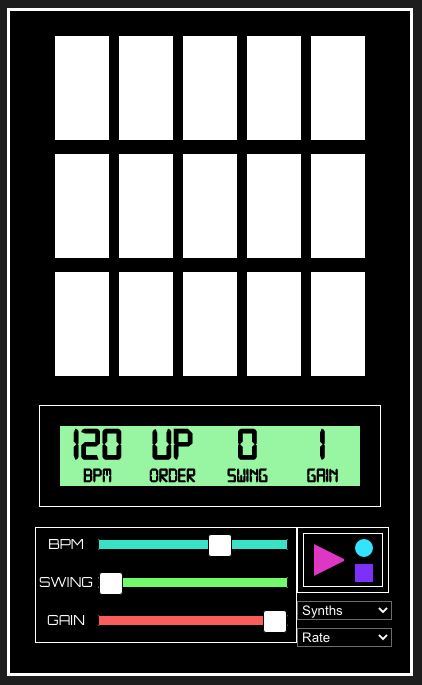
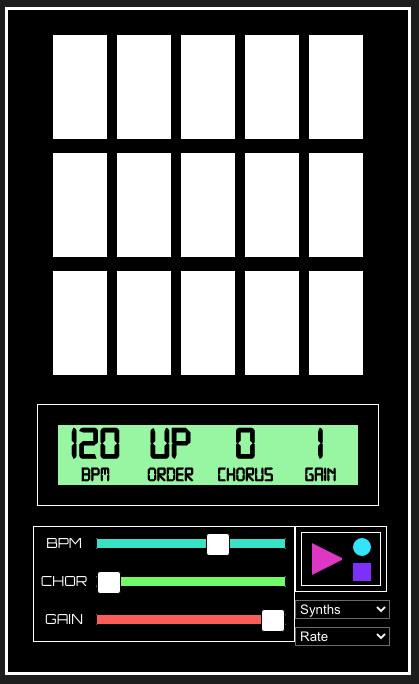
replaces Arp swing with chorus and updates image

diff --git a/src/containers/arpeggiator/Arpeggiator.js b/src/containers/arpeggiator/Arpeggiator.js
@@ -17,7 +17,7 @@ export default function Arpeggiator() {
   const [durationChoices] = useState(DurationChoices);
   const [eventID, setEventID] = useState(0);
   const [bpm, setBpm] = useState(120);
-  const [swing, setSwing] = useState(0.0);
+  const [chorus, setChorus] = useState(0.0);
   const [gain, setGain] = useState(1.0);
   const [recDest] = useState(Tone.context.createMediaStreamDestination());
   const [recorder, setRecorder] = useState(null);
@@ -104,9 +104,11 @@ export default function Arpeggiator() {
     Tone.Transport.bpm.value = bpm;
   }
 
-  function updateSwing(swing) {
-    setSwing(parseFloat(swing));
-    Tone.Transport.swing = swing;
+  function updateChorus(chorus) {
+    synth.disconnect();
+    setChorus(parseFloat(chorus));
+    const chor = new Tone.Chorus(1.5, 3.5, chorus).toMaster();
+    synth.connect(chor);
   }
 
   function updateGain(gain) {
@@ -205,7 +207,7 @@ export default function Arpeggiator() {
           <div className="arpeggiator-values-container">
             <h3 className="arpeggiator-values">{bpm} <p className="arpeggiator-units">BPM</p></h3>
             <h3 className="arpeggiator-values">{order} <p className="arpeggiator-units">ORDER</p></h3>
-            <h3 className="arpeggiator-values">{swing} <p className="arpeggiator-units">Swing</p></h3>
+            <h3 className="arpeggiator-values">{chorus} <p className="arpeggiator-units">Chorus</p></h3>
             <h3 className="arpeggiator-values">{gain} <p className="arpeggiator-units">Gain</p></h3>
           </div>
         </div>
@@ -217,10 +219,10 @@ export default function Arpeggiator() {
               <Slider styleName={"bpm-slider"} min={1} max={180} step={1} value={bpm} update={updateBPM} />
             </div>
             <div className="arpeggiator-slider-value">
-              <p>SWING</p>
+              <p>CHOR</p>
             </div>
             <div className="arpeggiator-slider-container">
-              <Slider styleName={"swing-slider"} min={0.0} max={1.0} step={0.1} value={swing} update={updateSwing} />
+              <Slider styleName={"swing-slider"} min={0.0} max={1.0} step={0.1} value={chorus} update={updateChorus} />
             </div>
             <div className="arpeggiator-slider-value">
               <p>GAIN</p>
